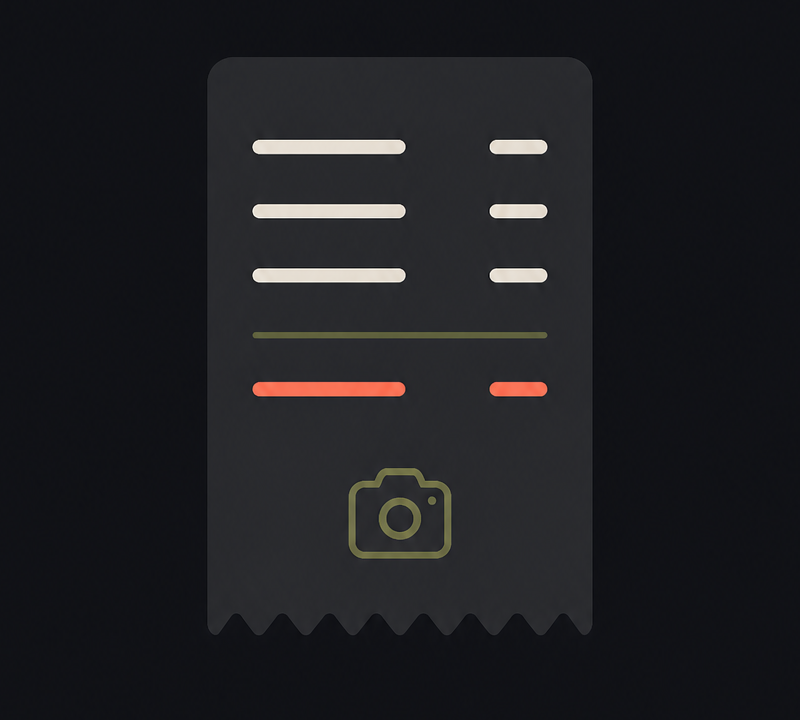
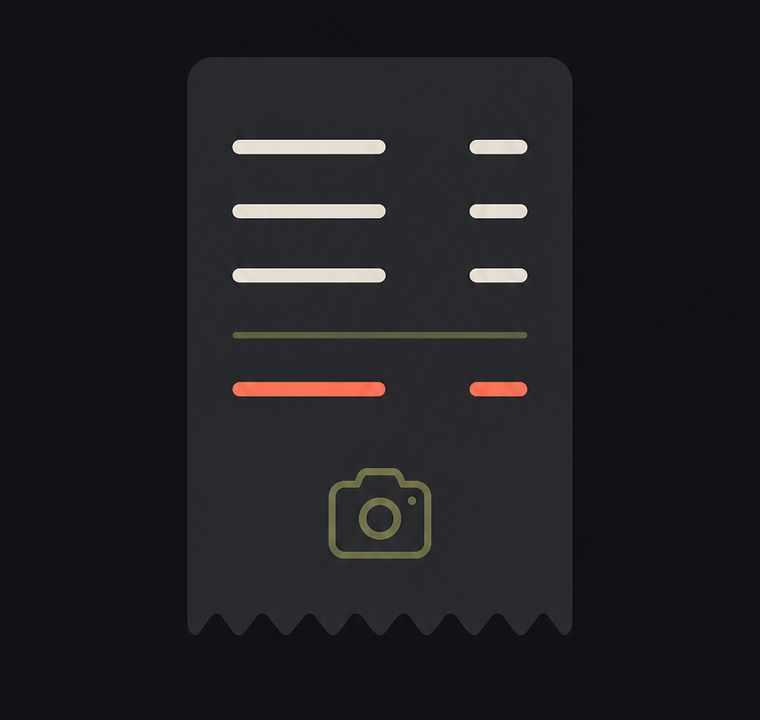
fix(auth): center brand composition and trim receipt art

diff --git a/apps/stokit-v2/components/auth/AuthKit.tsx b/apps/stokit-v2/components/auth/AuthKit.tsx
@@ -55,16 +55,16 @@ export function AuthScreen({ children, backgroundColor }: { children: React.Reac
 
 /** Brand lockup: the "S" mark, the Stokit wordmark, and the tagline. Left
  *  aligned to match the reference. */
-export function BrandHeader({ align = 'left' }: { align?: 'left' | 'center' }) {
+export function BrandHeader({ align = 'center' }: { align?: 'left' | 'center' }) {
   const { colors } = useTheme();
   const styles = React.useMemo(() => makeStyles(colors, false), [colors]);
   return (
     <View style={[styles.brandRow, align === 'center' && styles.brandCenter]}>
-      <View style={styles.brandMark}>
-        <Logo size={30} color={colors.ink} accent={colors.primary} />
+      <View style={styles.brandLockup}>
+        <Logo size={34} color={colors.ink} accent={colors.primary} />
+        <Text style={styles.brandWordmark}>Stokit</Text>
       </View>
-      <Text style={styles.brandWordmark}>Stokit</Text>
-      <Text style={styles.brandTagline}>
+      <Text style={[styles.brandTagline, align === 'center' && styles.brandTaglineCenter]}>
         Your kitchen, <Text style={{ color: colors.primary, fontFamily: fonts.sansSemibold }}>always</Text> in order.
       </Text>
     </View>
@@ -72,7 +72,7 @@ export function BrandHeader({ align = 'left' }: { align?: 'left' | 'center' }) {
 }
 
 /** Screen title + optional subtitle, consistent scale everywhere. */
-export function AuthHeading({ title, subtitle, align = 'left' }: { title: string; subtitle?: string; align?: 'left' | 'center' }) {
+export function AuthHeading({ title, subtitle, align = 'center' }: { title: string; subtitle?: string; align?: 'left' | 'center' }) {
   const { colors } = useTheme();
   const styles = React.useMemo(() => makeStyles(colors, false), [colors]);
   return (
@@ -193,28 +193,16 @@ function makeStyles(colors: AppColors, isDark: boolean) {
   return StyleSheet.create({
     flex: { flex: 1 },
     screen: { flex: 1, backgroundColor: authBackground(colors, isDark) },
-    scrollContent: { flexGrow: 1, justifyContent: 'center', paddingHorizontal: spacing.xl, paddingVertical: spacing.xxl },
+    scrollContent: { flexGrow: 1, justifyContent: 'center', paddingHorizontal: spacing.xl, paddingVertical: spacing.xl },
 
-    brandRow: { alignItems: 'flex-start', marginBottom: spacing.xxl },
+    brandRow: { alignItems: 'flex-start', marginBottom: spacing.xl },
     brandCenter: { alignItems: 'center' },
-    brandMark: {
-      width: 46,
-      height: 46,
-      borderRadius: 13,
-      backgroundColor: colors.surface,
-      alignItems: 'center',
-      justifyContent: 'center',
-      marginBottom: spacing.sm,
-      shadowColor: '#000',
-      shadowOpacity: 0.06,
-      shadowRadius: 10,
-      shadowOffset: { width: 0, height: 4 },
-      elevation: 2,
-    },
-    brandWordmark: { fontFamily: fonts.serifItalic, fontSize: 30, lineHeight: 34, color: colors.ink },
-    brandTagline: { fontFamily: fonts.sansMedium, fontSize: 13, color: colors.muted, marginTop: 2 },
+    brandLockup: { flexDirection: 'row', alignItems: 'center', gap: spacing.sm },
+    brandWordmark: { fontFamily: fonts.serifItalic, fontSize: 29, lineHeight: 34, color: colors.ink },
+    brandTagline: { fontFamily: fonts.sansMedium, fontSize: 13, color: colors.muted, marginTop: spacing.xs },
+    brandTaglineCenter: { textAlign: 'center' },
 
-    headingBlock: { marginBottom: spacing.xl },
+    headingBlock: { marginBottom: spacing.xl, alignItems: 'center' },
     title: { fontFamily: fonts.serifItalic, fontSize: 32, lineHeight: 39, color: colors.ink },
     subtitle: { fontFamily: fonts.sans, fontSize: 15, lineHeight: 22, color: colors.muted, marginTop: spacing.sm },
 

diff --git a/apps/stokit-v2/constants/version.ts b/apps/stokit-v2/constants/version.ts
@@ -2,4 +2,4 @@
  * Increment this OTA number before every OTA publish.
  * Bump this once per OTA push — the only place the sequence number lives. 
  */
-export const OTA_SEQ = 355;
+export const OTA_SEQ = 356;
